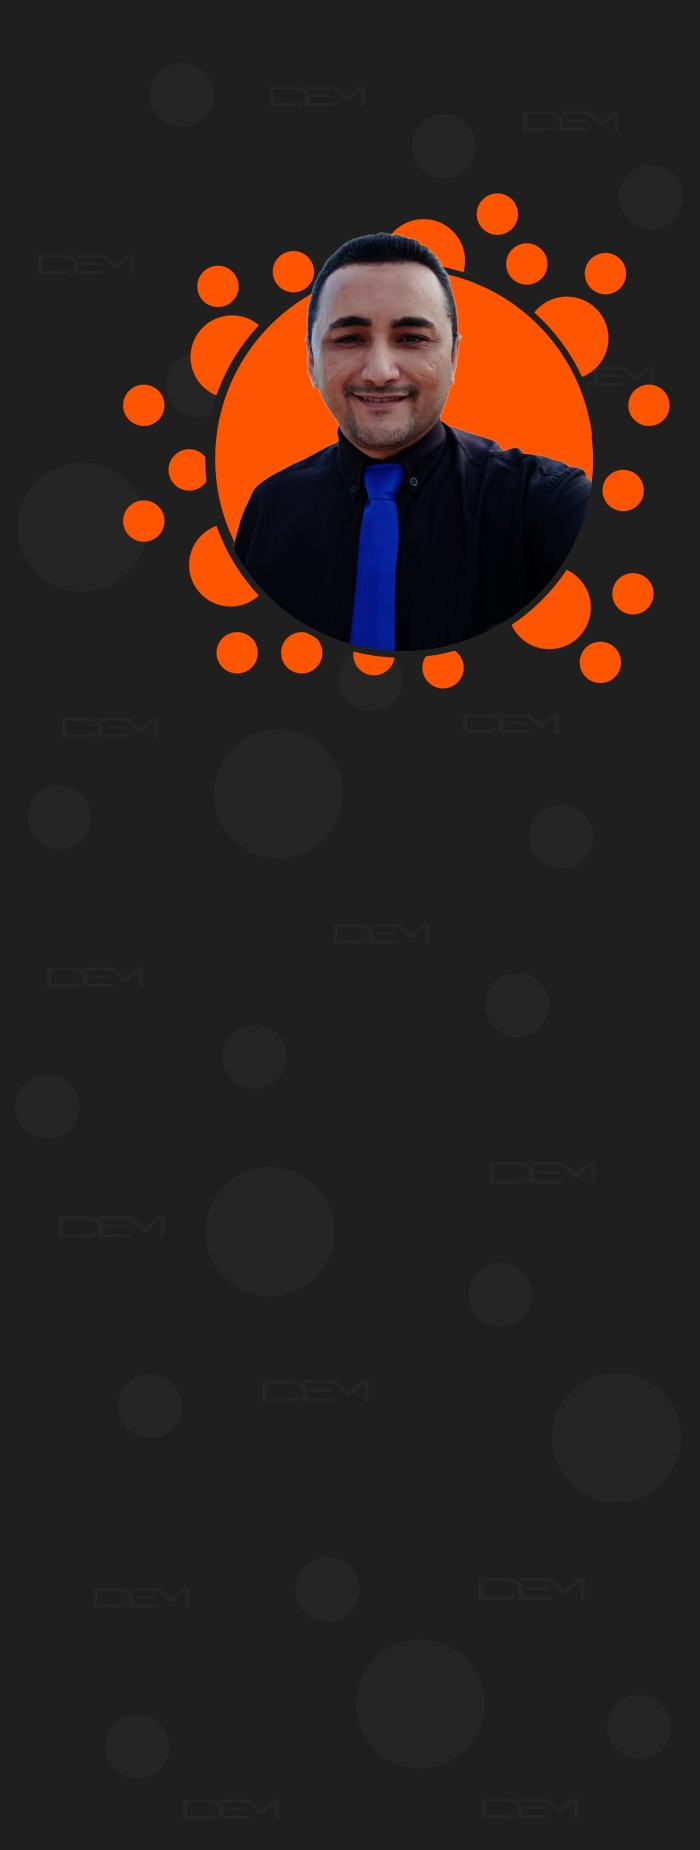
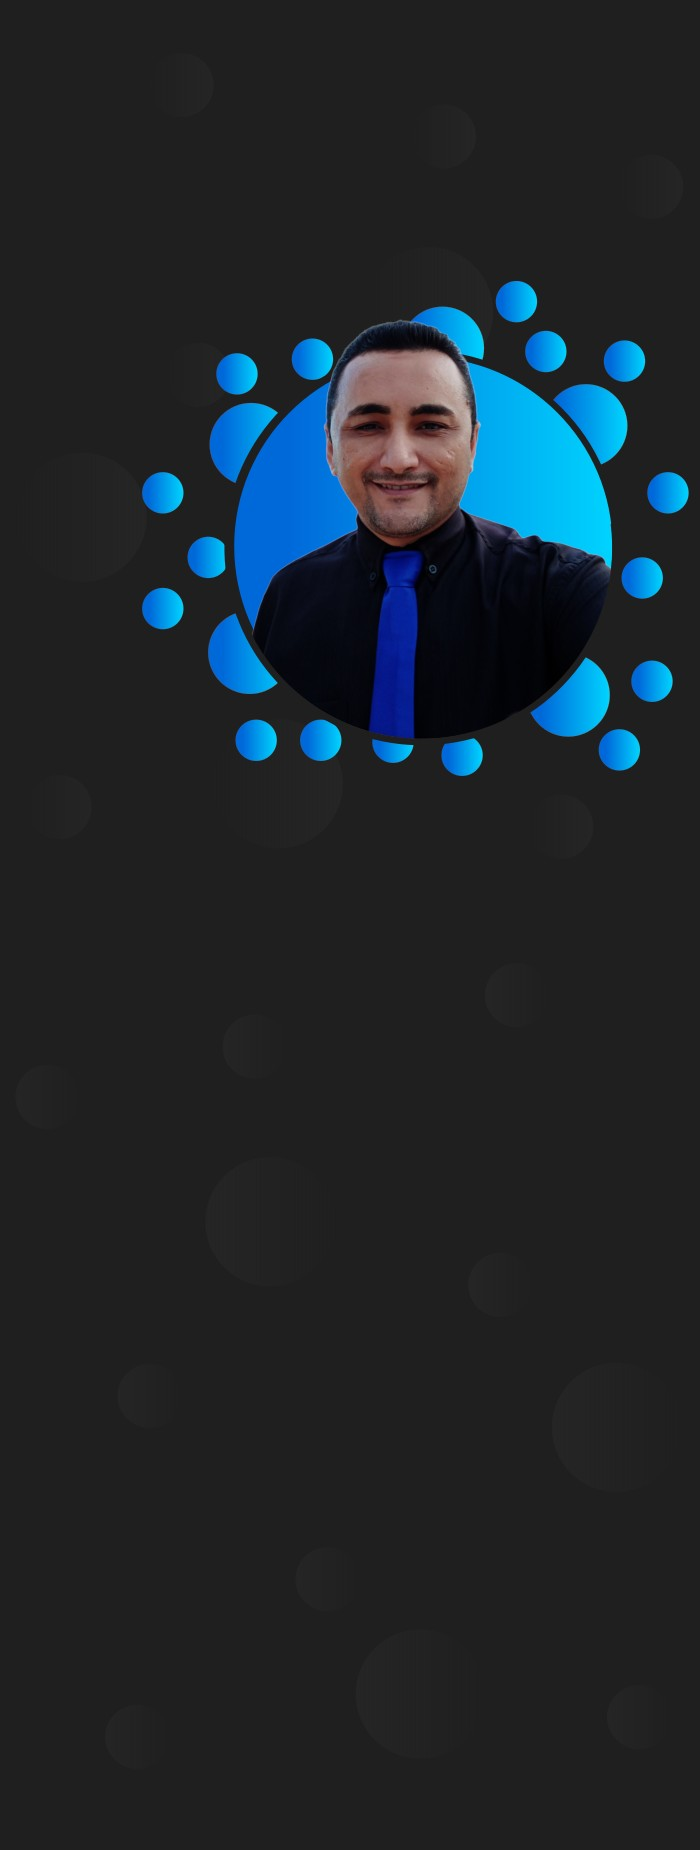
Upgrade color

Changed region(s): [[0.18, 0.0924, 0.99, 0.4314]]

diff --git a/src/style/index.css b/src/style/index.css
@@ -59,7 +59,7 @@ table {
     --color_02: #222222;
     --color_03: #252525;
     --color_04: #f0f0f0;
-    --color_05: #ff0000;
+    --color_05: #00d5ff;
 
     /* Excetion colors */
     --erro: #ff0000;
@@ -70,7 +70,7 @@ table {
     --color_02_opacity: #222222cc;
     --color_03_opacity: #252525cc;
     --color_04_opacity: #f0f0f0cc;
-    --color_05_opacity: #ff5500cc;
+    --color_05_opacity: #00d5ffcc;
 }
 
 html {
